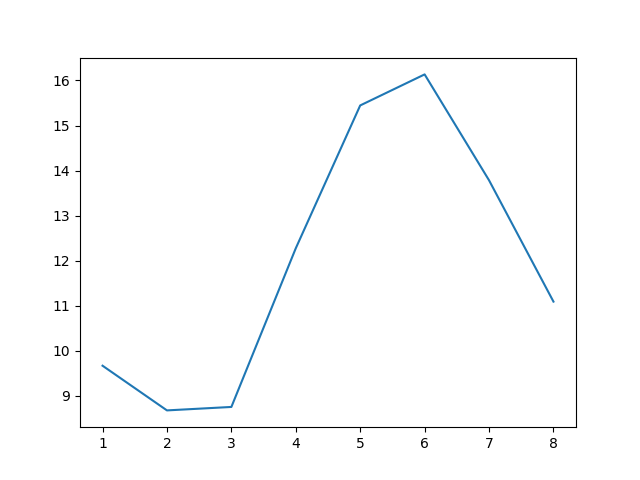
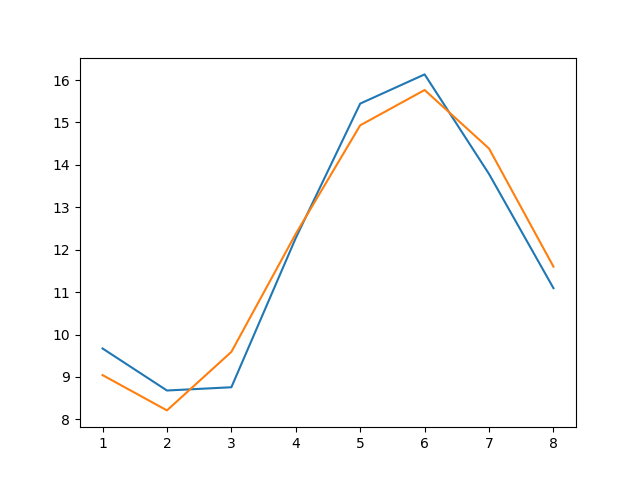
descente 2,4,6 cos et dessin courbe journée

diff --git a/TIPERedac/RapportTIPE.tex b/TIPERedac/RapportTIPE.tex
@@ -104,7 +104,7 @@
 \section{Présentation} 
 %%%%%%%%%%
 La prévision consiste à prévoir, c'est-à-dire à \og voir avant\fg{}. Il s'agit donc, à partir de ce que l'on sait à un moment donné, de savoir ce qui se passera à un moment ultérieur, avec la meilleure probabilité. En effet, à part les phénomènes déterministes, comme par exemple le mouvement des solides à court terme, on ne peut avoir que des indications probabilistes. C'est un problème universel, qui s'applique à l'économie, la politique, la vie privée, et aussi bien sûr aux prévisions météorologiques.\\   
-Définir l'intelligence en général est très compliqué. Voici une définition simple pour ce rapport~: observer-se souvenir-faire un modèle de prévision. Il existe un dicton météorologique~: "Quand la neige ne fond pas, c'est quelle en attend d'autre." Ce dicton est confirmé par les observations. Comme les masses d'air en France circulent d'ouest en est, la neige tombe d'abord sur un front d'air chaud -air froid, puis reste sous l'air froid, et tombe encore sur le front air froid - air chaud. On peut dire que ce dicton est une forme d'intelligence. Ce travail de TIPE est semblable, puisqu'il existe des paramètres (température et humidité), ils sont sur des bases, et ce travail développe une utilisation de ces données.  On peut parler d'intelligence artificielle. \\
+%Définir l'intelligence en général est très compliqué. Voici une définition simple pour ce rapport~: observer-se souvenir-faire un modèle de prévision. Il existe un dicton météorologique~: "Quand la neige ne fond pas, c'est quelle en attend d'autre." Ce dicton est confirmé par les observations. Comme les masses d'air en France circulent d'ouest en est, la neige tombe d'abord sur un front d'air chaud -air froid, puis reste sous l'air froid, et tombe encore sur le front air froid - air chaud. On peut dire que ce dicton est une forme d'intelligence. Ce travail de TIPE est semblable, puisqu'il existe des paramètres (température et humidité), ils sont sur des bases, et ce travail développe une utilisation de ces données.  On peut parler d'intelligence artificielle. \\
 La prévision repose sur deux éléments : des données disponibles à un moment, et des théories ou des modèles qui permettent d'utiliser ces données. \\
 Les processus météorologiques sont tout à fait chaotiques. Cela signifie que des incertitudes minimes à un instant donné peuvent avoir des conséquences très fortes sur le déroulement. En fait, ces incertitudes n'empêchent pas de prévoir à court terme, par exemple pour le lendemain, mais elles rendent difficiles les prévisions au delà de deux semaines. \\
 Si les processus météorologiques sont chaotiques à moyen terme, ils sont au contraire extrêmement stables dès lors que on les analyse en moyenne. Par exemple, Milankovitch a prévu que les variations de trois paramètres~-excentricité, obliquité et précession~-auraient des effets périodiques sur les glaciations. Milankovitch a fait apparaître des périodes de 20~000, 40~000 et 100~000 ans, ce qui a été confirmé expérimentalement par les mesures de $\delta O_{18}$ dans les carottes glaciaires de Vostock, en 1976. Ces résultats montrent que, en faisant des moyennes sur une centaine d'année, on a des tendances très claires d'évolution des températures, alors qu'il est difficile de prévoir la température dans deux semaines.   
@@ -238,30 +238,48 @@ Prévision à x jour                  &1                         &2             
 \subsection{Troisième modèle : Approximation de la courbe des températures par une somme de fonctions sinusoïdales}
 À priori les conditions météorologiques sont cycliques par rapport à l'année et au jour. Nous pouvons donc nous demander si il est judicieux de modéliser ses paramètre par une somme de sinusoïdes. Nous réalisons donc une
 transformation de Fourier pour nous demander si la méthode est appropriée. \\
+Pour réaliser une transformation de Fourier discrète, nous utilisons la bibliothèque numpy sur python qui utilise la formule suivante :  \\
+$ A_{k}  = \displaystyle { \sum_{m=0}^{n-1}} a_{m} exp(-2\pi i \frac{mk}{n} ) $ avec $k = 0, ... , n-1 $   \\ 
+\vspace {0.3cm}
 \begin{figure} [!h]
 \centering
 \includegraphics[width=0.48 \textwidth]{./imagesTIPE/fftT.png}\quad
 \includegraphics[width=0.48 \textwidth]{./imagesTIPE/fftH.png}
-\caption{\label{fig:190101Lolita} transformation de Fourier discrète de la température et de l'humidité de la base d'entrainement (auquelles ont a enlevé la valeur moyenne moins un)}
+\caption{\label{fig:190101Lolita} transformation de Fourier discrète de la température et de l'humidité de la base d'entrainement}
 \end{figure}
+\begin{figure} [!h]
+\centering
+\includegraphics[width=0.48 \textwidth]{./imagesTIPE/fftTZ.png}\quad
+\includegraphics[width=0.48 \textwidth]{./imagesTIPE/fftHZ.png}
+\caption{\label{fig:190101Lolita} transformation de Fourier discrète de la température et de l'humidité de la base d'entrainement zoomées sur 0 }
+\end{figure}
+
 Nous concluons que la méthode est appropriée. \\
-Sur les deux courbes on observe des pics aux fréquence de 1/365 jours, 1jours et 1/2 jours et 1/3 de jours.
-
+Sur les deux courbes on observe des pics aux fréquence de 1/(365 jours) et 1/(1jour) ainsi que des harmoniques de ses fréquences.
 On approxime donc les paramètres par des fonctions de la forme : \\
- $f(t) = A cos (\omega t + \phi_{1}) + B cos (\omega2 t + \phi_{2}) + C$  \\
-$g(t) = A cos (\omega t + \phi_{1}) + B cos (\omega2 t + \phi_{2}) + C + D cos (\omega3 t + \phi_{3})$ \\
-$h(t) = A cos (\omega t + \phi_{1}) + B cos (\omega2 t + \phi_{2}) + C + D cos (\omega3 t + \phi_{3}) + E cos (\omega4 t + \phi_{4})$ \\ 
-avec $\omega1 = 2 \pi$ (période journalière) , $\omega2 = 2 \pi /365$ (période annuelle), $\omega3 = 4 \pi$ (période demi-journalière) et $\omega4 = 6\pi$ (période d'un tiers de journée).\\
+ $f(t) = A cos (\omega_{1} t + \phi_{1}) + B cos (\omega_{2} t + \phi_{2}) + C$  \\
+$g(t) = A cos (\omega_{1} t + \phi_{1}) + B cos (\omega_{2} t + \phi_{2}) + C + D cos (\omega_{3} t + \phi_{3}) + E cos (\omega_{4} t + \phi_{4})$ \\
+$h(t) = A cos (\omega_{1} t + \phi_{1}) + B cos (\omega_{2} t + \phi_{2}) + C + D cos (\omega_{3} t + \phi_{3}) + E cos (\omega_{4} t + \phi_{4}) + F cos (\omega_{5} t + \phi_{5}) + G cos (\omega_{6} t + \phi_{6})$ \\ 
+Avec $\omega_{1} = 2 \pi$ (période journalière) , $\omega_{2} = 2 \pi /365$ (période annuelle), $\omega_{3} = 4 \pi$ (période demi-journalière), $\omega_{4} = 4\pi/365 $  (période semi annuelle), $\omega_{5} = 6 \pi$ (période du tiers de journéé), $\omega_{6} = 6\pi/365 $  (période du tiers d'année)\\
 
-Il faut ensuite déterminer les valeurs de des coefficients et des déphasage.On utilise alors la méthode du gradient :
+Il faut ensuite déterminer les valeurs de des coefficients et des déphasage. On utilise alors la méthode du gradient :
 \begin{itemize}
-\item On crée une fonction écart $(u(t))$ qui calcule l'écart entre les prévisions de $u(t)$ et les valeurs de la base d'entrainement. On cherche alors à déterminer le minimum de écart en fonction des coefficients et des déphasages.
-\item On initialise aléatoirement ses paramètres
+\item On crée une fonction écart qui calcule l'écart type entre les prévisions et les valeurs de la base d'entrainement en fonction des coefficients et des déphasages. On cherche alors à déterminer le minimum de écart.
+\item On initialise les paramètres (déphasages et coefficient) à une valeur approximative
 \item On dérive écart par rapport à chaque paramètre
 \item On modifie chaque paramètre X en faisant X = X - dX
 \item On répète les deux points précédents un grand nombre de fois
 \end{itemize}
 
+Nous testons la fonction obtenue sur la base de test en calculant l'écart type.
+
+\begin{tabular}{llll}\hline
+\hline
+Fonction                             &f                         &g                       &h \\
+Écart type de température & $4.38{}^{\circ}C$   & $1{}^{\circ}C$   &  $1{}^{\circ}C$ \\ 
+Écart type de d'humidité    & $15.3\%$   & $1\%$   &  $1\%$   \\   
+\hline 
+\end{tabular}
 
 
 

diff --git a/analyse_station_unique/descente_cosinus/descente_4cosinus.py b/analyse_station_unique/descente_cosinus/descente_4cosinus.py
@@ -3,7 +3,7 @@ from matplotlib import pyplot as plt
 import numpy as np
 
 delta = 10**(-3)
-alpha = [1, 1, 1, 0.1, 0.1, 1, 0.1, 1, 0.1]
+alpha = [1, 1, 0.1, 1, 0.1, 1, 0.1, 1, 0.1]
 
 with open('../json/temperature.json') as jsonfile :
 	temperature = json.load(jsonfile)
@@ -20,7 +20,8 @@ dates.sort()
 
 
 def fct_test(X, x) :
-	return X[0]*np.cos(2*np.pi*x + X[3]) + X[1]*np.cos(2*np.pi*x/365 + X[4]) + X[2] + X[5]*np.cos(4*np.pi*x/365 + X[6]) + X[7]*np.cos(4*np.pi*x/365 + X[8])
+	return X[0] + X[1]*np.cos (2*np.pi*x + X[2]) + X[3]*np.cos(2*np.pi*x/365 + X[4]) + X[5]*np.cos (4*np.pi*x + X[6]) + X[7]*np.cos(4*np.pi*x/365 + X[8])
+	#X[0]*np.cos(2*np.pi*x + X[3]) + X[1]*np.cos(2*np.pi*x/365 + X[4]) + X[2] + X[5]*np.cos(4*np.pi*x + X[6])
 
 def ecart_temperature(temperature_test) :
 	ecarts_temperature = 0
@@ -33,12 +34,14 @@ def ecart_temperature(temperature_test) :
 	return (ecarts_temperature/compt)**(1/2)
 
 
-X = np.array([2.0,10.0,285.0,0.0,0.0,0.0, 0.0,0.0,0.0])
-# A,B,C,phi1,phi2,D,phi3
+X = np.array([280 ,0.0 ,0.0,0.0,0.0,0.0, 0.0, 0.0, 0.0])
+# C A phi1 B phi2 D phi3 E phi4
 # Acos(w1t + phi1) + Bcos(w2t+phi2) + C + Dcos (w3t+phi3)
 #w1 jour w2 annee W3 demi jour
 
-for i in range(100) :
+drapeau = False
+ecart_precedant = 0
+while drapeau == False :
 	val_actuel = []
 	for date in dates :
 		val_actuel.append(fct_test(X,date))
@@ -55,13 +58,9 @@ for i in range(100) :
 		val_modif_ecart = ecart_temperature([dates,val_modif])
 		df = (val_modif_ecart - val_actuel_ecart)/delta
 		dX[j] = - df * alpha[j]
-	if i == 98 :
-		print ("T")
-		print ("ecart -1")
-		print (val_modif_ecart)
 	X = X + dX
+	X[2] = X[2]%(2*np.pi)
 	X[4] = X[4]%(2*np.pi)
-	X[3] = X[3]%(2*np.pi)
 	X[6] = X[6]%(2*np.pi)
 	X[8] = X[8]%(2*np.pi)
 	#print(X)
@@ -69,8 +68,12 @@ for i in range(100) :
 	#	print("{} sur 100".format(i))
 	#	print(val_modif_ecart)
 	#	print(" ")
+	if abs (val_actuel_ecart - ecart_precedant) < 0.008 :
+		drapeau = True
+	ecart_precedant = val_actuel_ecart
+print ("T")
 print ("ecart")
-print (val_modif_ecart)
+print (val_actuel_ecart)
 print ("dX")
 print (dX)
 
@@ -86,7 +89,7 @@ for annee in temperature[0].keys() :
 plt.plot(dates, val_actuel, label='final')
 plt.legend()
 plt.savefig("T4cos.png")
-print ("X = [A,B,C,p1,p2,D,p3,E,p4]")
+print ("X = [C, A, phi1, B, phi2, D, phi3, E, phi4]")
 print(X)
 
 
@@ -101,12 +104,14 @@ def ecart_humidite(humidite_test) :
 	return (ecarts_humidite/compt)**(1/2)
 
 
-X = np.array([30.0,10.0,75,0.0,0.0,0.0,0.0,0.0,0.0])
-# A,B,C,phi1,phi2
-# Acos(w1t + phi1) + Bcos(w2t+phi2) + C
-#w1 jour w2 annee
+X = np.array([70.0,0.0,0.0,0.0,0.0,0.0,0.0,0.0,0.0])
+# C A phi1 B phi2 D phi3 E phi4
+# Acos(w1t + phi1) + Bcos(w2t+phi2) + C + Dcos (w3t+phi3)
+#w1 jour w2 annee W3 demi jour
 
-for i in range(200) :
+ecart_precedant = 0
+drapeau = False
+while drapeau == False :
 	val_actuel = []
 	for date in dates :
 		val_actuel.append(fct_test(X,date))
@@ -123,15 +128,12 @@ for i in range(200) :
 		val_modif_ecart = ecart_humidite([dates,val_modif])
 		df = (val_modif_ecart - val_actuel_ecart)/delta
 		dX[j] = - df * alpha[j]
-	if i == 98 :
-		print (" ")
-		print (" ")
-		print ("H")
-		print ("ecart -1")
-		print (val_modif_ecart)
+	if abs (val_actuel_ecart - ecart_precedant) < 0.008 :
+		drapeau = True
+	ecart_precedant = val_actuel_ecart
 	X = X + dX
+	X[2] = X[2]%(2*np.pi)
 	X[4] = X[4]%(2*np.pi)
-	X[3] = X[3]%(2*np.pi)
 	X[6] = X[6]%(2*np.pi)
 	X[8] = X[8]%(2*np.pi)
 
@@ -142,8 +144,11 @@ for i in range(200) :
 	#	print(" ")
 plt.clf()
 
+print (" ")
+print (" ")
+print ("H")
 print("ecart")
-print (val_modif_ecart)
+print (val_actuel_ecart)
 print ("dX")
 print (dX)
 
@@ -158,7 +163,7 @@ for annee in humidite[0].keys() :
 plt.plot(dates, val_actuel, label='final')
 plt.legend()
 plt.savefig("H4cos.png")
-print ("X = [A,B,C,p1,p2,D,p3,E,p4]")
+print ("X = [C, A, phi1, B, phi2, D, phi3, E, phi4]")
 print(X)
 
 

diff --git a/analyse_station_unique/descente_cosinus/descente_2cosinus.py b/analyse_station_unique/descente_cosinus/descente_2cosinus.py
@@ -33,7 +33,7 @@ def ecart_temperature(temperature_test) :
 	return (ecarts_temperature/compt)**(1/2)
 
 
-X = np.array([2.0,10.0,285.0,0.0,0.0])
+X = np.array([0.0,0.0,285.0,0.0,0.0])
 # A,B,C,phi1,phi2
 # Acos(w1t + phi1) + Bcos(w2t+phi2) + C
 #w1 jour w2 annee
@@ -55,10 +55,6 @@ for i in range(100) :
 		val_modif_ecart = ecart_temperature([dates,val_modif])
 		df = (val_modif_ecart - val_actuel_ecart)/delta
 		dX[j] = - df * alpha[j]
-	if i == 98 :
-		print ("T")
-		print ("ecart -1")
-		print (val_modif_ecart)
 	X = X + dX
 	X[4] = X[4]%(2*np.pi)
 	X[3] = X[3]%(2*np.pi)
@@ -67,8 +63,9 @@ for i in range(100) :
 	#	print("{} sur 100".format(i))
 	#	print(val_modif_ecart)
 	#	print(" ")
+print ("T")
 print ("ecart")
-print (val_modif_ecart)
+print (val_actuel_ecart)
 print ("dX")
 print (dX)
 
@@ -99,12 +96,12 @@ def ecart_humidite(humidite_test) :
 	return (ecarts_humidite/compt)**(1/2)
 
 
-X = np.array([30.0,10.0,75,0.0,0.0])
+X = np.array([0.0,0.0,75,0.0,0.0])
 # A,B,C,phi1,phi2
 # Acos(w1t + phi1) + Bcos(w2t+phi2) + C
 #w1 jour w2 annee
 
-for i in range(200) :
+for i in range(250) :
 	val_actuel = []
 	for date in dates :
 		val_actuel.append(fct_test(X,date))
@@ -121,12 +118,6 @@ for i in range(200) :
 		val_modif_ecart = ecart_humidite([dates,val_modif])
 		df = (val_modif_ecart - val_actuel_ecart)/delta
 		dX[j] = - df * alpha[j]
-	if i == 98 :
-		print (" ")
-		print (" ")
-		print ("H")
-		print ("ecart -1")
-		print (val_modif_ecart)
 	X = X + dX
 	X[4] = X[4]%(2*np.pi)
 	X[3] = X[3]%(2*np.pi)
@@ -138,6 +129,9 @@ for i in range(200) :
 	#	print(" ")
 plt.clf()
 
+print (" ")
+print(" ")
+print ("H")
 print("ecart")
 print (val_modif_ecart)
 print ("dX")
